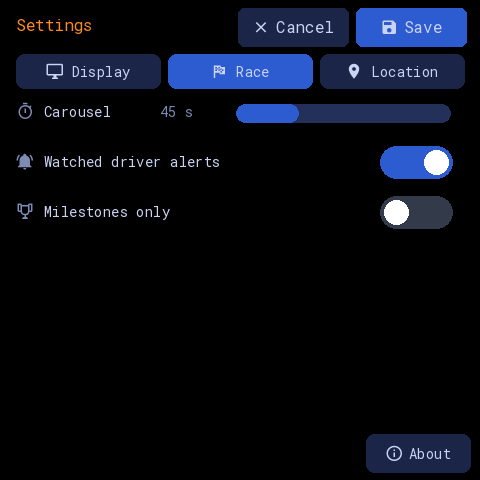
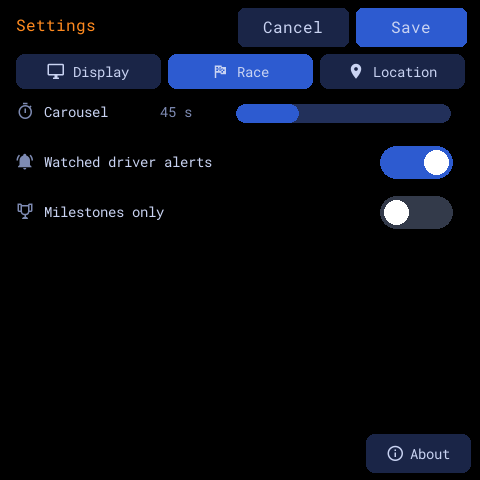
Settings: text-only Save/Cancel buttons

diff --git a/tools/render_pages.py b/tools/render_pages.py
@@ -490,10 +490,10 @@ def _settings_frame(ctx, page, tab, ids):
             "pnl_display", "pnl_race", "pnl_location", "settings_err", *ids)
     img = Image.new("RGB", (W, H), BG); d = ImageDraw.Draw(img)
     d.text((16, 14), "Settings", font=FONT[16], fill=ORANGE)
-    for x, w, col, lab, cp in ((238, 110, (0x1A, 0x25, 0x47), "Cancel", 0xF0156),
-                               (356, 110, BORDER, "Save", 0xF0193)):
+    for x, w, col, lab in ((238, 110, (0x1A, 0x25, 0x47), "Cancel"),
+                           (356, 110, BORDER, "Save")):
         d.rounded_rectangle([x, 8, x + w, 46], 6, fill=col)
-        _pair(d, x, 8, w, 38, lab, cp, 16)
+        d.text((x + w / 2, 8 + 19), lab, font=FONT[16], fill=TEXT, anchor="mm")
     mdi = None
     mdi_path = os.path.join(ROOT, "tools", ".cache", "mdi.ttf")     # the firmware's MDI 7.4.47
     if os.path.exists(mdi_path):
